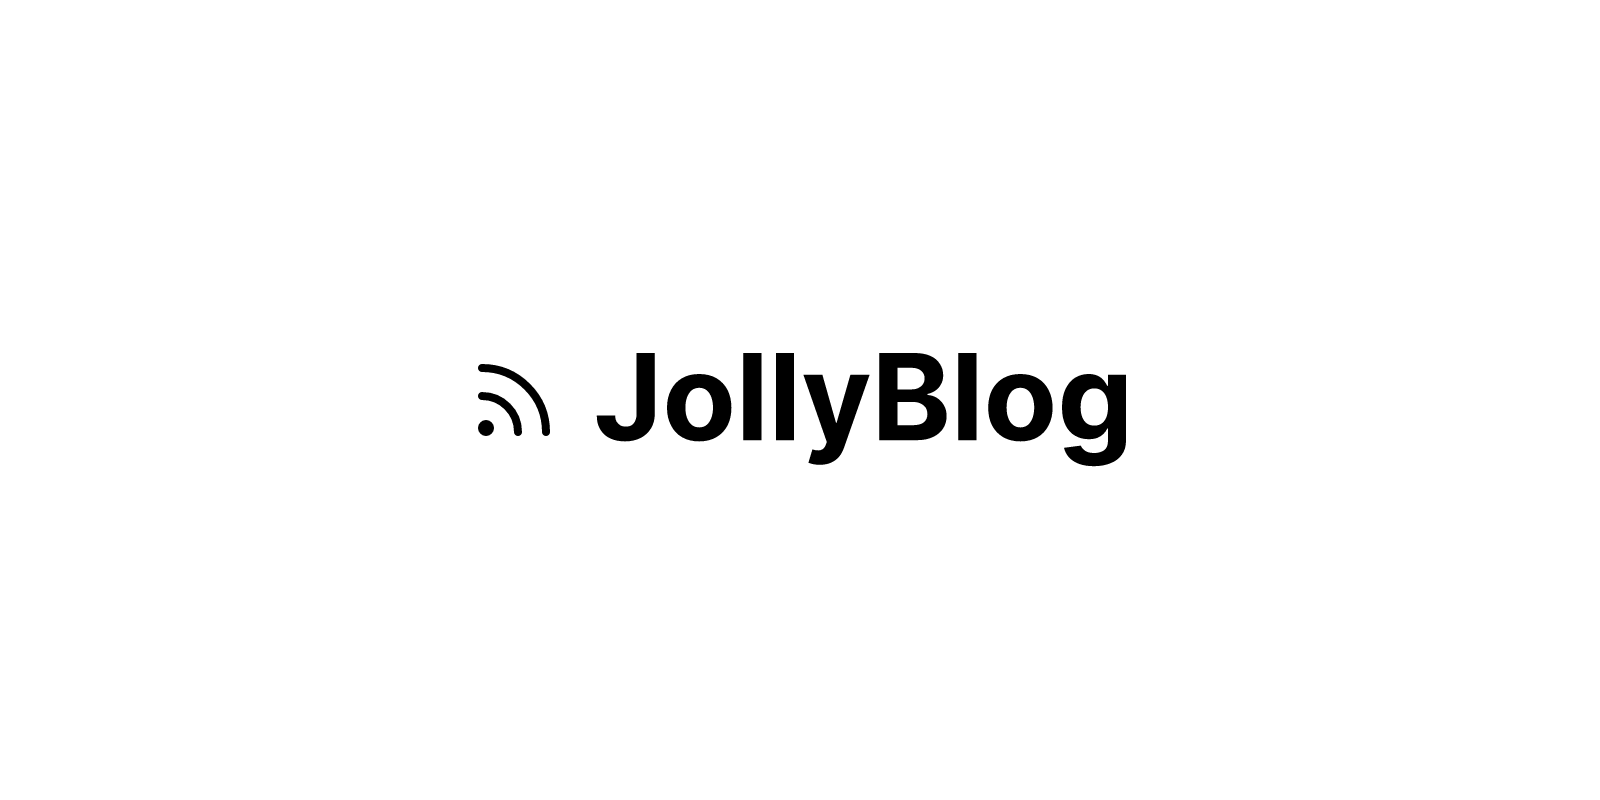
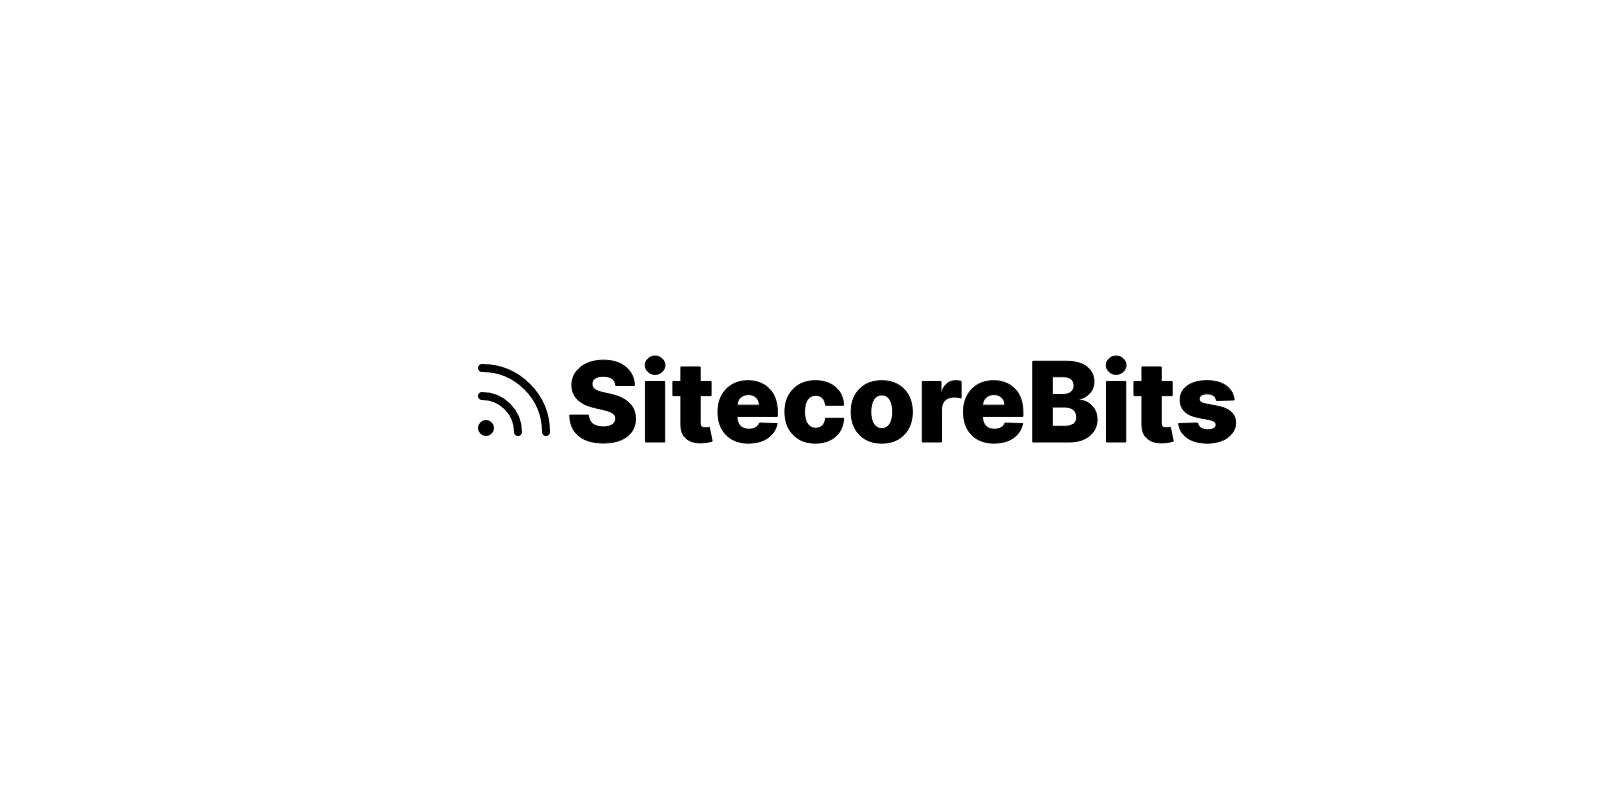
image updates

Changed region(s): [[0.3438, 0.4375, 0.7812, 0.5938]]

diff --git a/app/about/page.tsx b/app/about/page.tsx
@@ -21,14 +21,14 @@ export default async function AboutPage() {
       <div className="flex flex-col md:flex-row gap-8 items-center md:items-start">
         <div className="min-w-48 max-w-48 flex flex-col gap-2">
           <Avatar className="h-48 w-48">
-            <AvatarImage src="/avatar.png" alt={siteConfig.author} />
-            <AvatarFallback>JC</AvatarFallback>
+            <AvatarImage src="/avatar.jpg" alt={siteConfig.author} />
+            <AvatarFallback>DS</AvatarFallback>
           </Avatar>
           <h2 className="text-2xl font-bold text-center break-words">
             {siteConfig.author}
           </h2>
           <p className="text-muted-foreground text-center break-words">
-            Software Developer
+            Sitecore Developer
           </p>
         </div>
         <p className="text-muted-foreground text-lg py-4">

diff --git a/app/blog/page.tsx b/app/blog/page.tsx
@@ -7,8 +7,8 @@ import { getAllTags, sortPosts, sortTagsByCount } from "@/lib/utils";
 import { Metadata } from "next";
 
 export const metadata: Metadata = {
-  title: "My blog",
-  description: "This is a description",
+  title: "My Sitecore blog",
+  description: "Unlock Sitecore Success: Expert Tips, Tutorials, and Insights. Dive into the world of Sitecore development with me!",
 };
 
 const POSTS_PER_PAGE = 5;
@@ -38,7 +38,7 @@ export default async function BlogPage({ searchParams }: BlogPageProps) {
         <div className="flex-1 space-y-4">
           <h1 className="inline-block font-black text-4xl lg:text-5xl">Blog</h1>
           <p className="text-xl text-muted-foreground">
-            My ramblings on all things web dev.
+            My ramblings on all things Sitecore.
           </p>
         </div>
       </div>

diff --git a/app/page.tsx b/app/page.tsx
@@ -15,8 +15,7 @@ export default function Home() {
             Hello, I&apos;m Dakota
           </h1>
           <p className="max-w-[42rem] mx-auto text-muted-foreground sm:text-xl text-balance">
-            Welcome to my blog template. Built using tailwind, shadcn, velite
-            and Nextjs 14.
+            Welcome to my blog where I share my experiences and knowledge on Sitecore development by providing tutorials, tips, and tricks. Let's level up together!
           </p>
           <div className="flex flex-col gap-4 justify-center sm:flex-row">
             <Link
